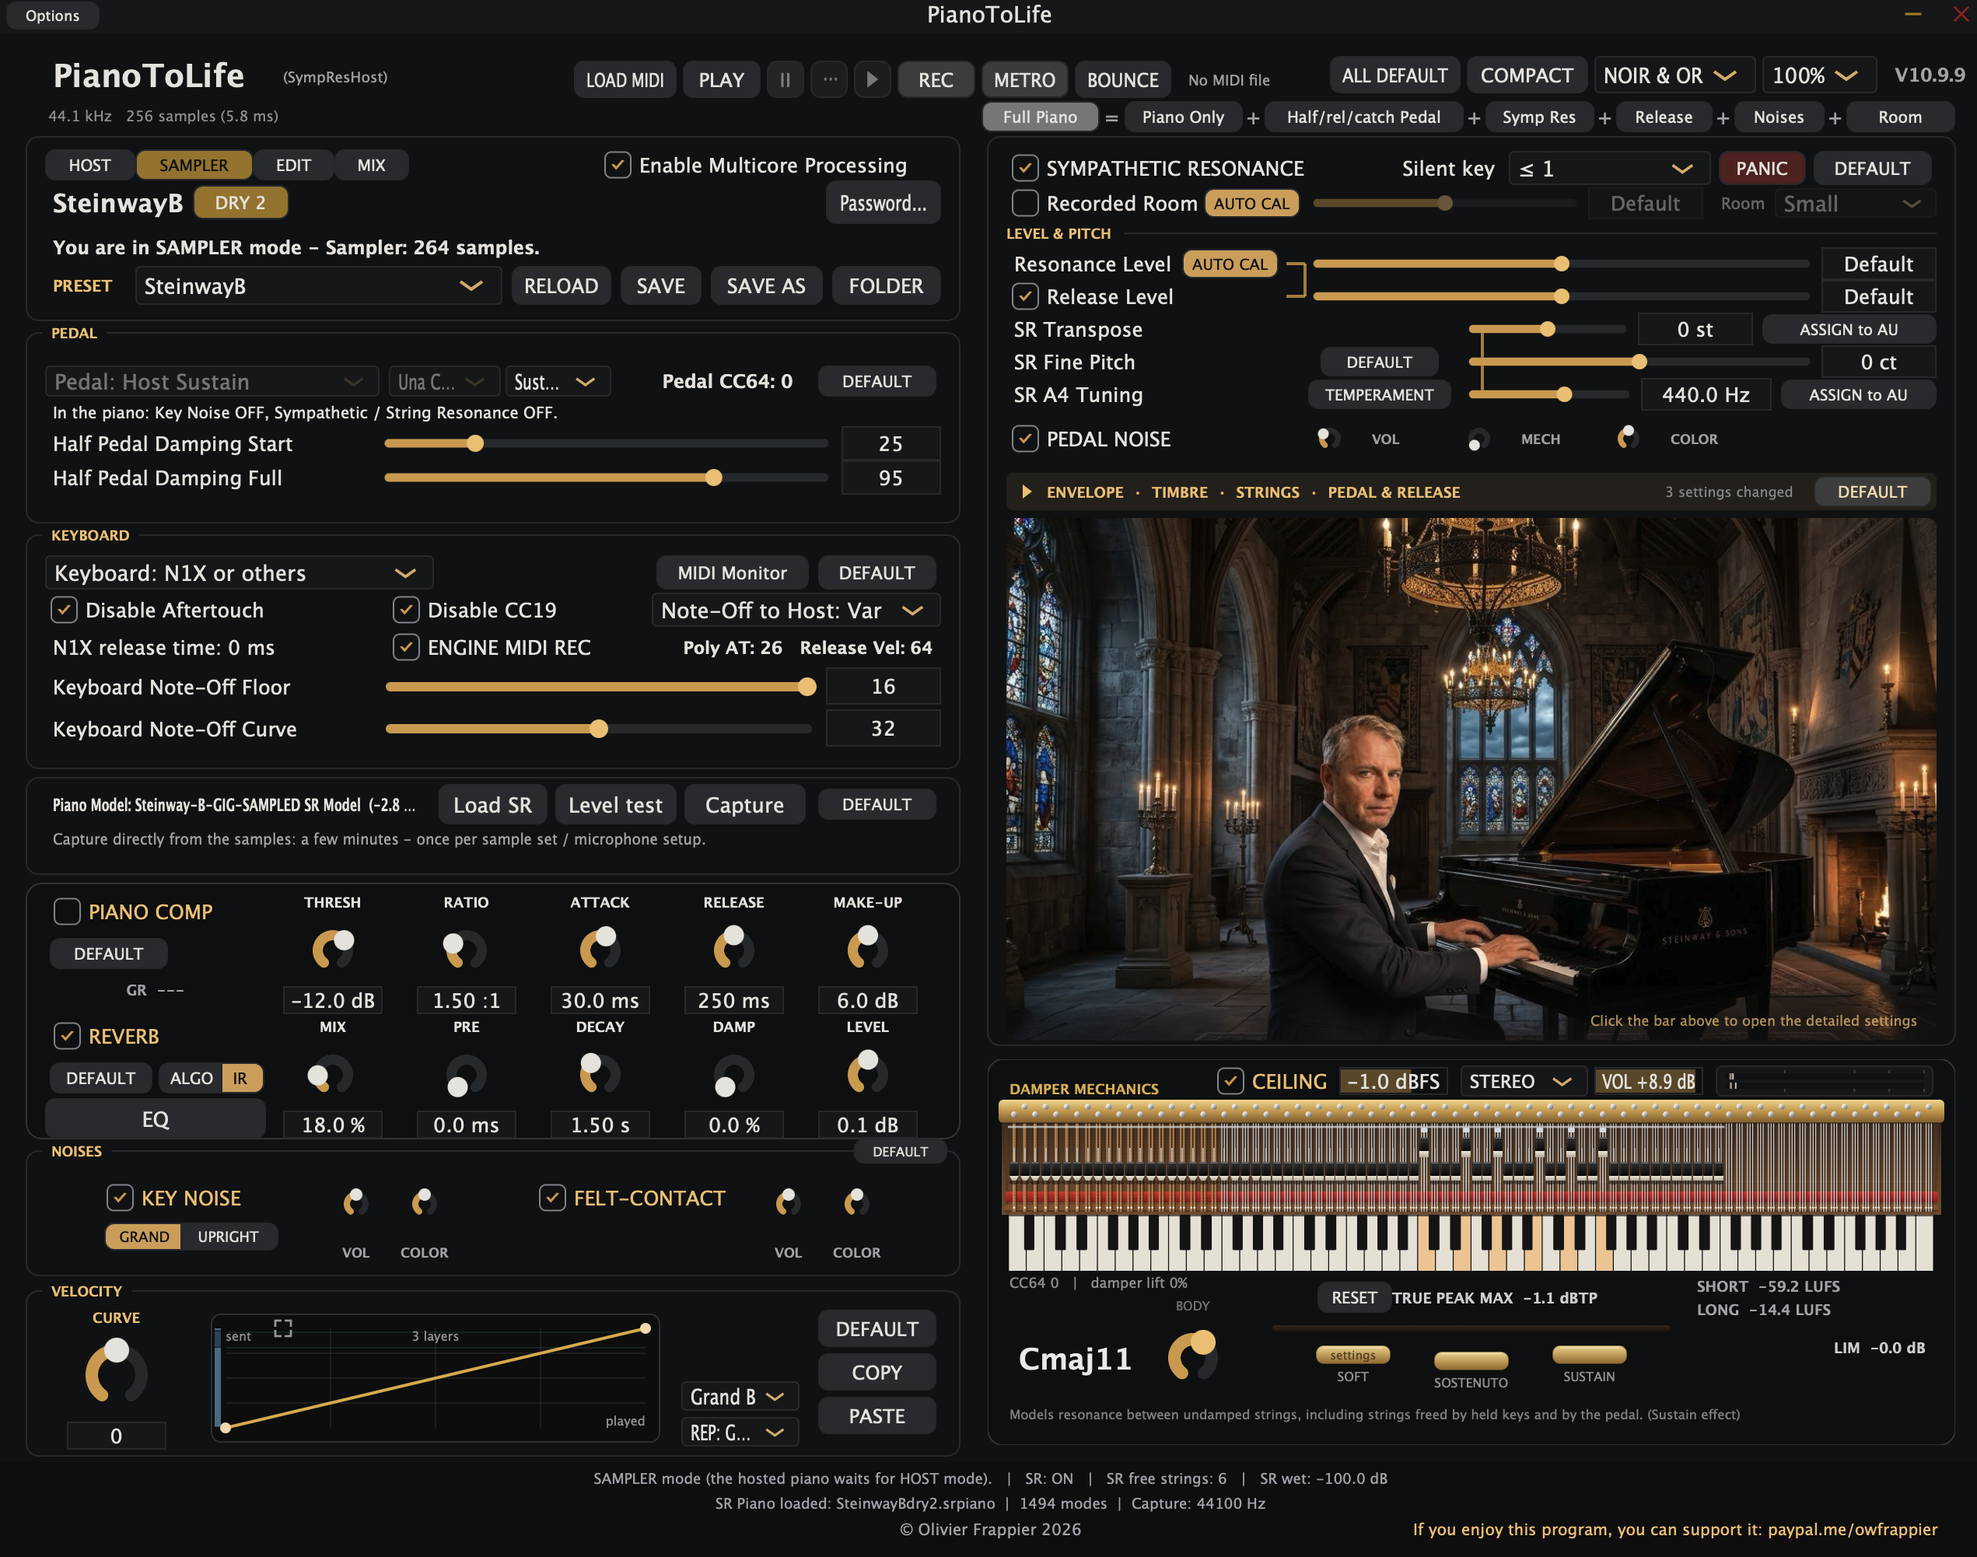
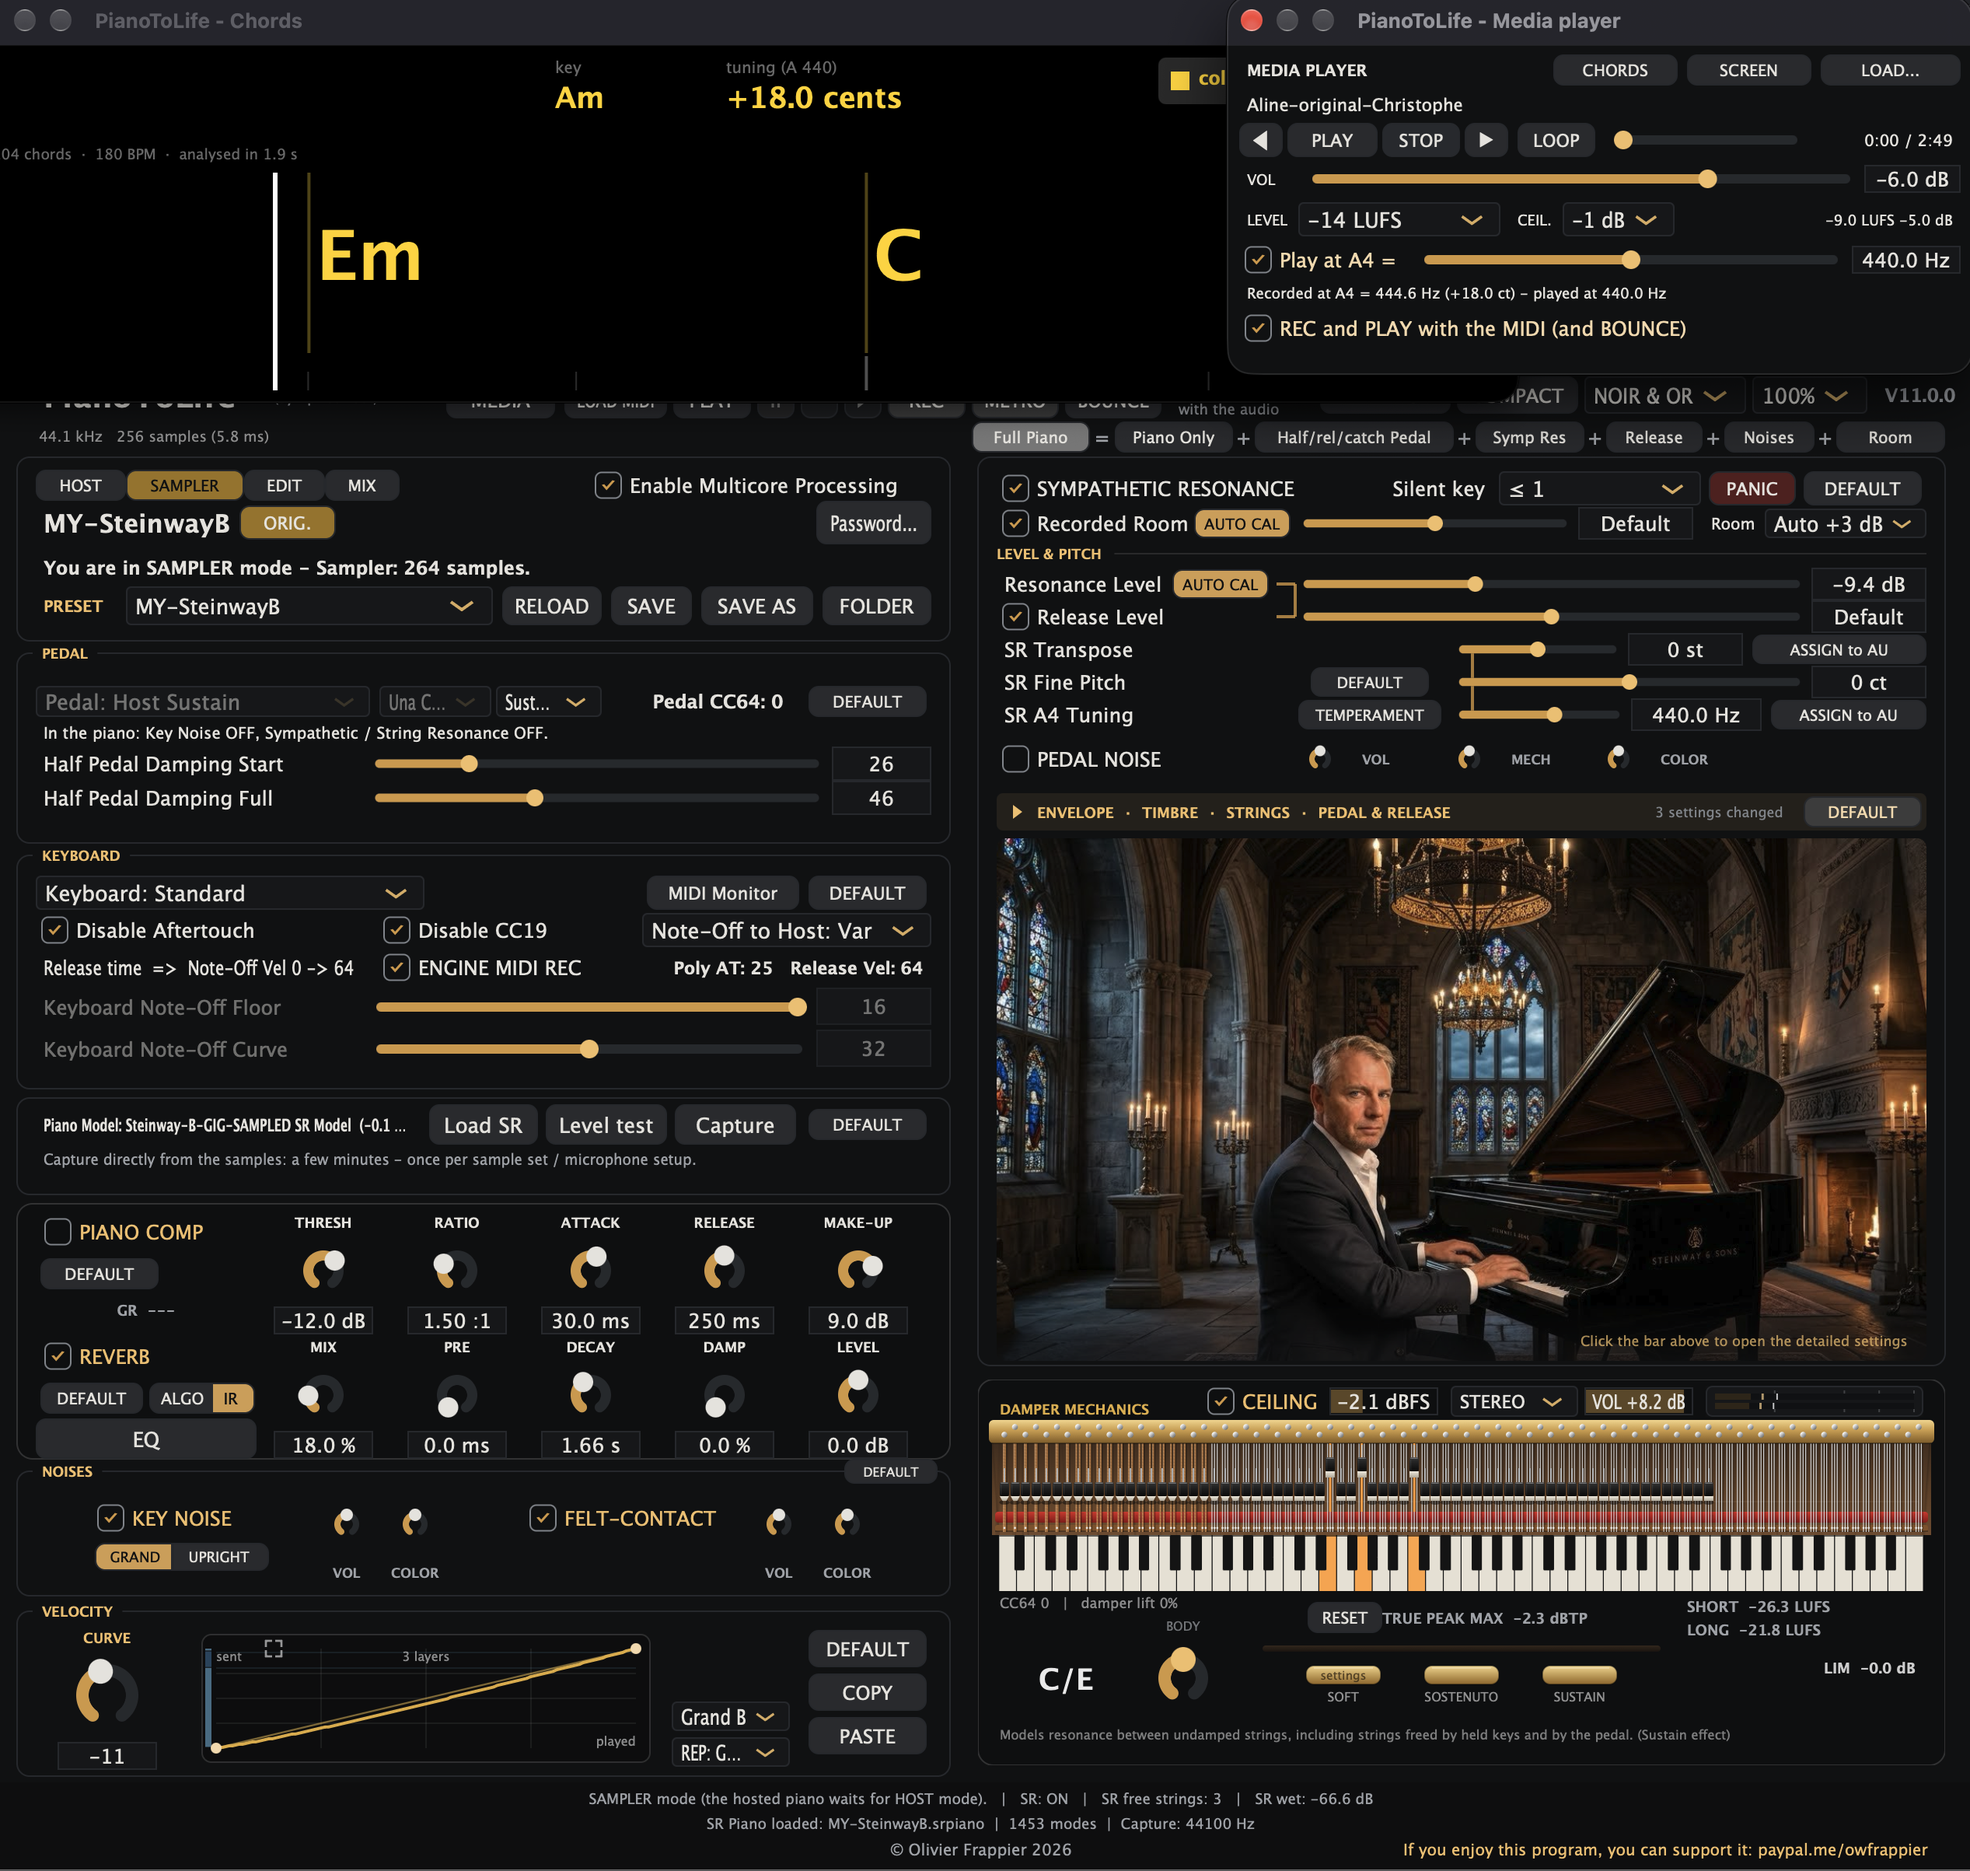
Add files via upload

diff --git a/MANUEL.md b/MANUEL.md
@@ -1,6 +1,6 @@
 # PianoToLife — Manuel d'utilisation
 
-*Version 10.9.9 · [English version](USER_MANUAL.md) · Mapping du sampler : [Manuel du sampler](MANUEL_SAMPLER.md)*
+*Version 11.0.0 · [English version](USER_MANUAL.md) · Mapping du sampler : [Manuel du sampler](MANUEL_SAMPLER.md)*
 
 PianoToLife fait **se comporter un piano virtuel comme un vrai** : les cordes qui résonnent par sympathie, la pédale
 de sustain et la demi-pédale, les étouffoirs, le relâchement, l'una corda, les bruits de la mécanique. Ce manuel
@@ -468,6 +468,37 @@ s'entend souvent tout de suite : la salle du piano se révèle, au lieu d'être 
   TAP), mesure (aucune, 1/1, 2/2, 2/4, 3/4, 4/4, 5/4, 8/4, 3/8, 6/8, 7/8, 8/8, 9/8, 12/8 — premier temps accentué, les groupes plus légèrement), son (bois ou bip), volume et **décompte**. On l'entend seulement — jamais
   dans un bounce ni dans la prise MIDI. Métronome en marche, REC démarre sur une mesure (après une mesure de décompte
   si coché) et le tempo et la mesure sont écrits dans le fichier MIDI : la prise tombe sur la grille d'un DAW.
+- **Lecteur MEDIA** (11.0.0, standalone) : le bouton **MEDIA**, à gauche de LOAD MIDI (aussi dans la barre compacte),
+  ouvre un lecteur dans sa propre fenêtre, déplaçable (MEDIA la referme ; la musique continue). Il joue un
+  enregistrement ou une vidéo **avec vous** : il est seulement entendu et ne passe jamais dans le traitement du piano.
+  - **LOAD...** : un ou plusieurs fichiers, un dossier ou une playlist **.m3u** (et enregistrer la playlist). WAV,
+    AIFF, FLAC, Ogg, MP3, M4A et **vidéos MP4, M4V, MOV** (aussi WMV et AVI sous Windows ; le son d'une vidéo est lu une
+    fois, puis gardé). Un clic sur le nom liste les morceaux ; **◀ PLAY STOP ▶ LOOP**, la position et VOL. La dernière
+    playlist et le dernier morceau reviennent au démarrage suivant (sans jouer).
+  - **LEVEL** : chaque fichier au même niveau sonore — **-14 / -16 LUFS** (streaming), **-23 LUFS** (radio-télé) ou Off
+    (tel qu'enregistré) — avec un seul gain qui ne le fait jamais dépasser -1 dBTP. **CEIL.** (-1 / -2 / -3 dB) : le
+    limiteur true peak propre au média, comme le Ceiling du piano. Pendant la lecture, piano et média ensemble restent
+    sous -0,3 dBFS.
+  - **Play at A4 =** (432–448 Hz) : le La de chaque fichier est mesuré (« Recorded at A4 = 438.6 Hz ») et le fichier
+    est joué au La choisi, juste avec votre piano. Le tempo bouge d'autant (20 cents = 1,2 %).
+  - **REC and PLAY with the MIDI (and BOUNCE)** (♫ sur la ligne MIDI) : REC fait un décompte (chiffres orange, sur une
+    mesure avec METRO), puis la prise MIDI et l'enregistrement démarrent ensemble ; le nom, la position et le diapason
+    de l'enregistrement sont écrits dans le fichier MIDI. PLAY rejoue les deux synchronisés — PAUSE et STOP aussi, LOOP
+    répète les deux. **BOUNCE** peut mettre l'enregistrement dans le fichier audio avec votre piano (option « Audio
+    file: in the bounce »).
+  - **SCREEN** : une fenêtre pour un deuxième écran, redimensionnable, plein écran par double-clic (sa place et sa
+    taille sont retenues). Elle montre la **vidéo** en synchro avec le lecteur et les **paroles** d'un fichier **.lrc**
+    du même nom à côté du fichier audio ou vidéo (ligne en cours en gras, les suivantes dessous). Bougez la souris : une
+    barre pour la **couleur** des paroles, l'opacité du **texte**, un **bandeau** transparent derrière elles (sur une
+    vidéo), la **taille** et le plein écran.
+  - **CHORDS** : les accords du morceau joué, trouvés par analyse (quelques secondes, une fois par fichier) : l'accord
+    en cours en grand, la **tonalité** et le **diapason** de l'enregistrement, et les accords qui **défilent** sur les
+    temps du morceau (mesures marquées), la tête de lecture en blanc. **colour** et **zoom − / +** ; la fenêtre est
+    redimensionnable.
+  - MEDIA est une **option (29 EUR ou 29 USD minimum, paiement unique, sans abonnement)** : au premier clic, une fenêtre montre ce qu'il fait et le lien
+    PayPal ; écrivez « Media » dans le message PayPal et vous recevez le mot de passe par e-mail. Une fois saisi, il
+    est retenu sur cet ordinateur.
+  - **Boucle MIDI** (11.0.0) : LOOP dans le menu LOAD MIDI répète maintenant aussi un seul fichier MIDI.
 - **Vue compacte** : réduit l'interface à une petite barre pendant que vous jouez. Depuis la 10.4.2, elle garde aussi ce
   qui sert en jouant : le lecteur MIDI et METRO (application autonome), l'accord joué, un clavier éclairé et cliquable,
   TRUE PEAK et LUFS, et depuis la 10.6.2 la liste des presets (les instruments en mode SAMPLER). Depuis la 10.6.3, la

diff --git a/USER_MANUAL.md b/USER_MANUAL.md
@@ -1,6 +1,6 @@
 # PianoToLife — User Manual
 
-*Version 10.9.9 · [Version française](MANUEL.md) · Sampler mapping: [Sampler Manual](SAMPLER_MANUAL.md)*
+*Version 11.0.0 · [Version française](MANUEL.md) · Sampler mapping: [Sampler Manual](SAMPLER_MANUAL.md)*
 
 PianoToLife makes a virtual piano **behave like a real one**: the strings that ring in sympathy, the sustain pedal
 and half pedal, the dampers, the release, the una corda, the noises of the mechanism. This manual explains how it
@@ -437,6 +437,33 @@ once: the piano's room comes out, instead of being masked.
   bar (none, 1/1, 2/2, 2/4, 3/4, 4/4, 5/4, 8/4, 3/8, 6/8, 7/8, 8/8, 9/8, 12/8 — first beat accented, the groups lighter), sound (wood or beep), volume and **count-in**. It is heard only — never in a
   bounce nor in the MIDI take. With the metronome on, REC starts on a bar (after one bar of count-in when ticked) and
   the tempo and time signature are written in the saved MIDI file, so the take sits on the grid of a DAW.
+- **MEDIA player** (11.0.0, standalone): the **MEDIA** button, left of LOAD MIDI (also in the compact bar), opens a
+  player in its own window, moved anywhere (MEDIA again closes it; the music goes on). It plays a recording or a video
+  **along with you**: it is heard only and never goes through the piano's sound processing.
+  - **LOAD...**: one or several files, a folder, or an **.m3u** playlist (and save the playlist). WAV, AIFF, FLAC, Ogg,
+    MP3, M4A and **videos MP4, M4V, MOV** (also WMV and AVI on Windows; a video's sound is read once, then kept). A
+    click on the name lists the pieces; **◀ PLAY STOP ▶ LOOP**, the position and VOL. The last playlist and piece come
+    back at the next start (not playing).
+  - **LEVEL**: every file played at the same loudness — **-14 / -16 LUFS** (streaming), **-23 LUFS** (broadcast) or Off
+    (as recorded) — with one gain that never takes it over -1 dBTP. **CEIL.** (-1 / -2 / -3 dB): the media's own
+    true-peak limiter, as the piano's Ceiling. While the media plays, piano and media together are kept under -0.3 dBFS.
+  - **Play at A4 =** (432–448 Hz): the A4 of each file is measured (e.g. "Recorded at A4 = 438.6 Hz") and the file is
+    played at the A4 you choose, so it is in tune with your piano. The tempo moves with it (20 cents = 1.2 %).
+  - **REC and PLAY with the MIDI (and BOUNCE)** (♫ on the MIDI line): REC counts in (orange numbers, on a bar with
+    METRO), then the MIDI take and the recording start together; the recording's name, place and tuning are written in
+    the MIDI file. PLAY replays both in sync — PAUSE and STOP too, LOOP repeats both. **BOUNCE** can put the recording
+    in the audio file with your piano (option "Audio file: in the bounce").
+  - **SCREEN**: a window for a second screen, resizable, full screen with a double-click (its place and size are
+    remembered). It shows the **video** in time with the player and the **lyrics** of a **.lrc** file of the same name
+    beside the audio or video file (current line in bold, the next ones under it). Move the mouse: a bar for the
+    lyrics' **colour**, **text** opacity, a see-through **band** behind them (over a video), **size** and full screen.
+  - **CHORDS**: the chords of the piece playing, found by analysis (a few seconds, once per file): the chord playing in
+    large letters, the **key** and the **tuning** of the recording, and the chords **scrolling** on the beats of the
+    piece (bars marked), the playhead in white. **colour** and **zoom − / +**; the window is resizable.
+  - MEDIA is an **option (29 EUR or 29 USD minimum, one payment, no subscription)**: at the first click a window shows what it does and the PayPal
+    link; write "Media" in the PayPal message and you receive the password by e-mail. Once entered, it is remembered on
+    this computer.
+  - **MIDI loop** (11.0.0): LOOP in the LOAD MIDI menu now also repeats a single MIDI file.
 - **Compact view**: fold the interface into a small bar while you play. Since 10.4.2 it also has what serves while
   playing: the MIDI player and METRO (standalone), the chord you play, a lit and clickable keyboard, TRUE PEAK and LUFS,
   and since 10.6.2 the preset list (the instruments in SAMPLER mode). Since 10.6.3 the compact bar is always shown at

diff --git a/MANUEL_SAMPLER.md b/MANUEL_SAMPLER.md
@@ -1,6 +1,6 @@
 # Sampler de PianoToLife — Manuel d'utilisation
 
-*Version 10.9.9 · [English version](SAMPLER_MANUAL.md) · Manuel général : [Manuel d'utilisation](MANUEL.md)*
+*Version 11.0.0 · [English version](SAMPLER_MANUAL.md) · Manuel général : [Manuel d'utilisation](MANUEL.md)*
 
 Le sampler intégré de PianoToLife joue **vos propres échantillons de piano**, avec tous les moteurs de PianoToLife
 par-dessus. Ce manuel explique comment transformer un dossier d'échantillons en piano jouable, ce que fait chaque

diff --git a/SAMPLER_MANUAL.md b/SAMPLER_MANUAL.md
@@ -1,6 +1,6 @@
 # PianoToLife Sampler — User Manual
 
-*Version 10.9.9 · [Version française](MANUEL_SAMPLER.md) · General manual: [User Manual](USER_MANUAL.md)*
+*Version 11.0.0 · [Version française](MANUEL_SAMPLER.md) · General manual: [User Manual](USER_MANUAL.md)*
 
 PianoToLife's built-in sampler plays **your own piano samples** with all of PianoToLife's engines on top of
 them. This manual explains how to turn a folder of samples into a playable piano, what every button does, and
